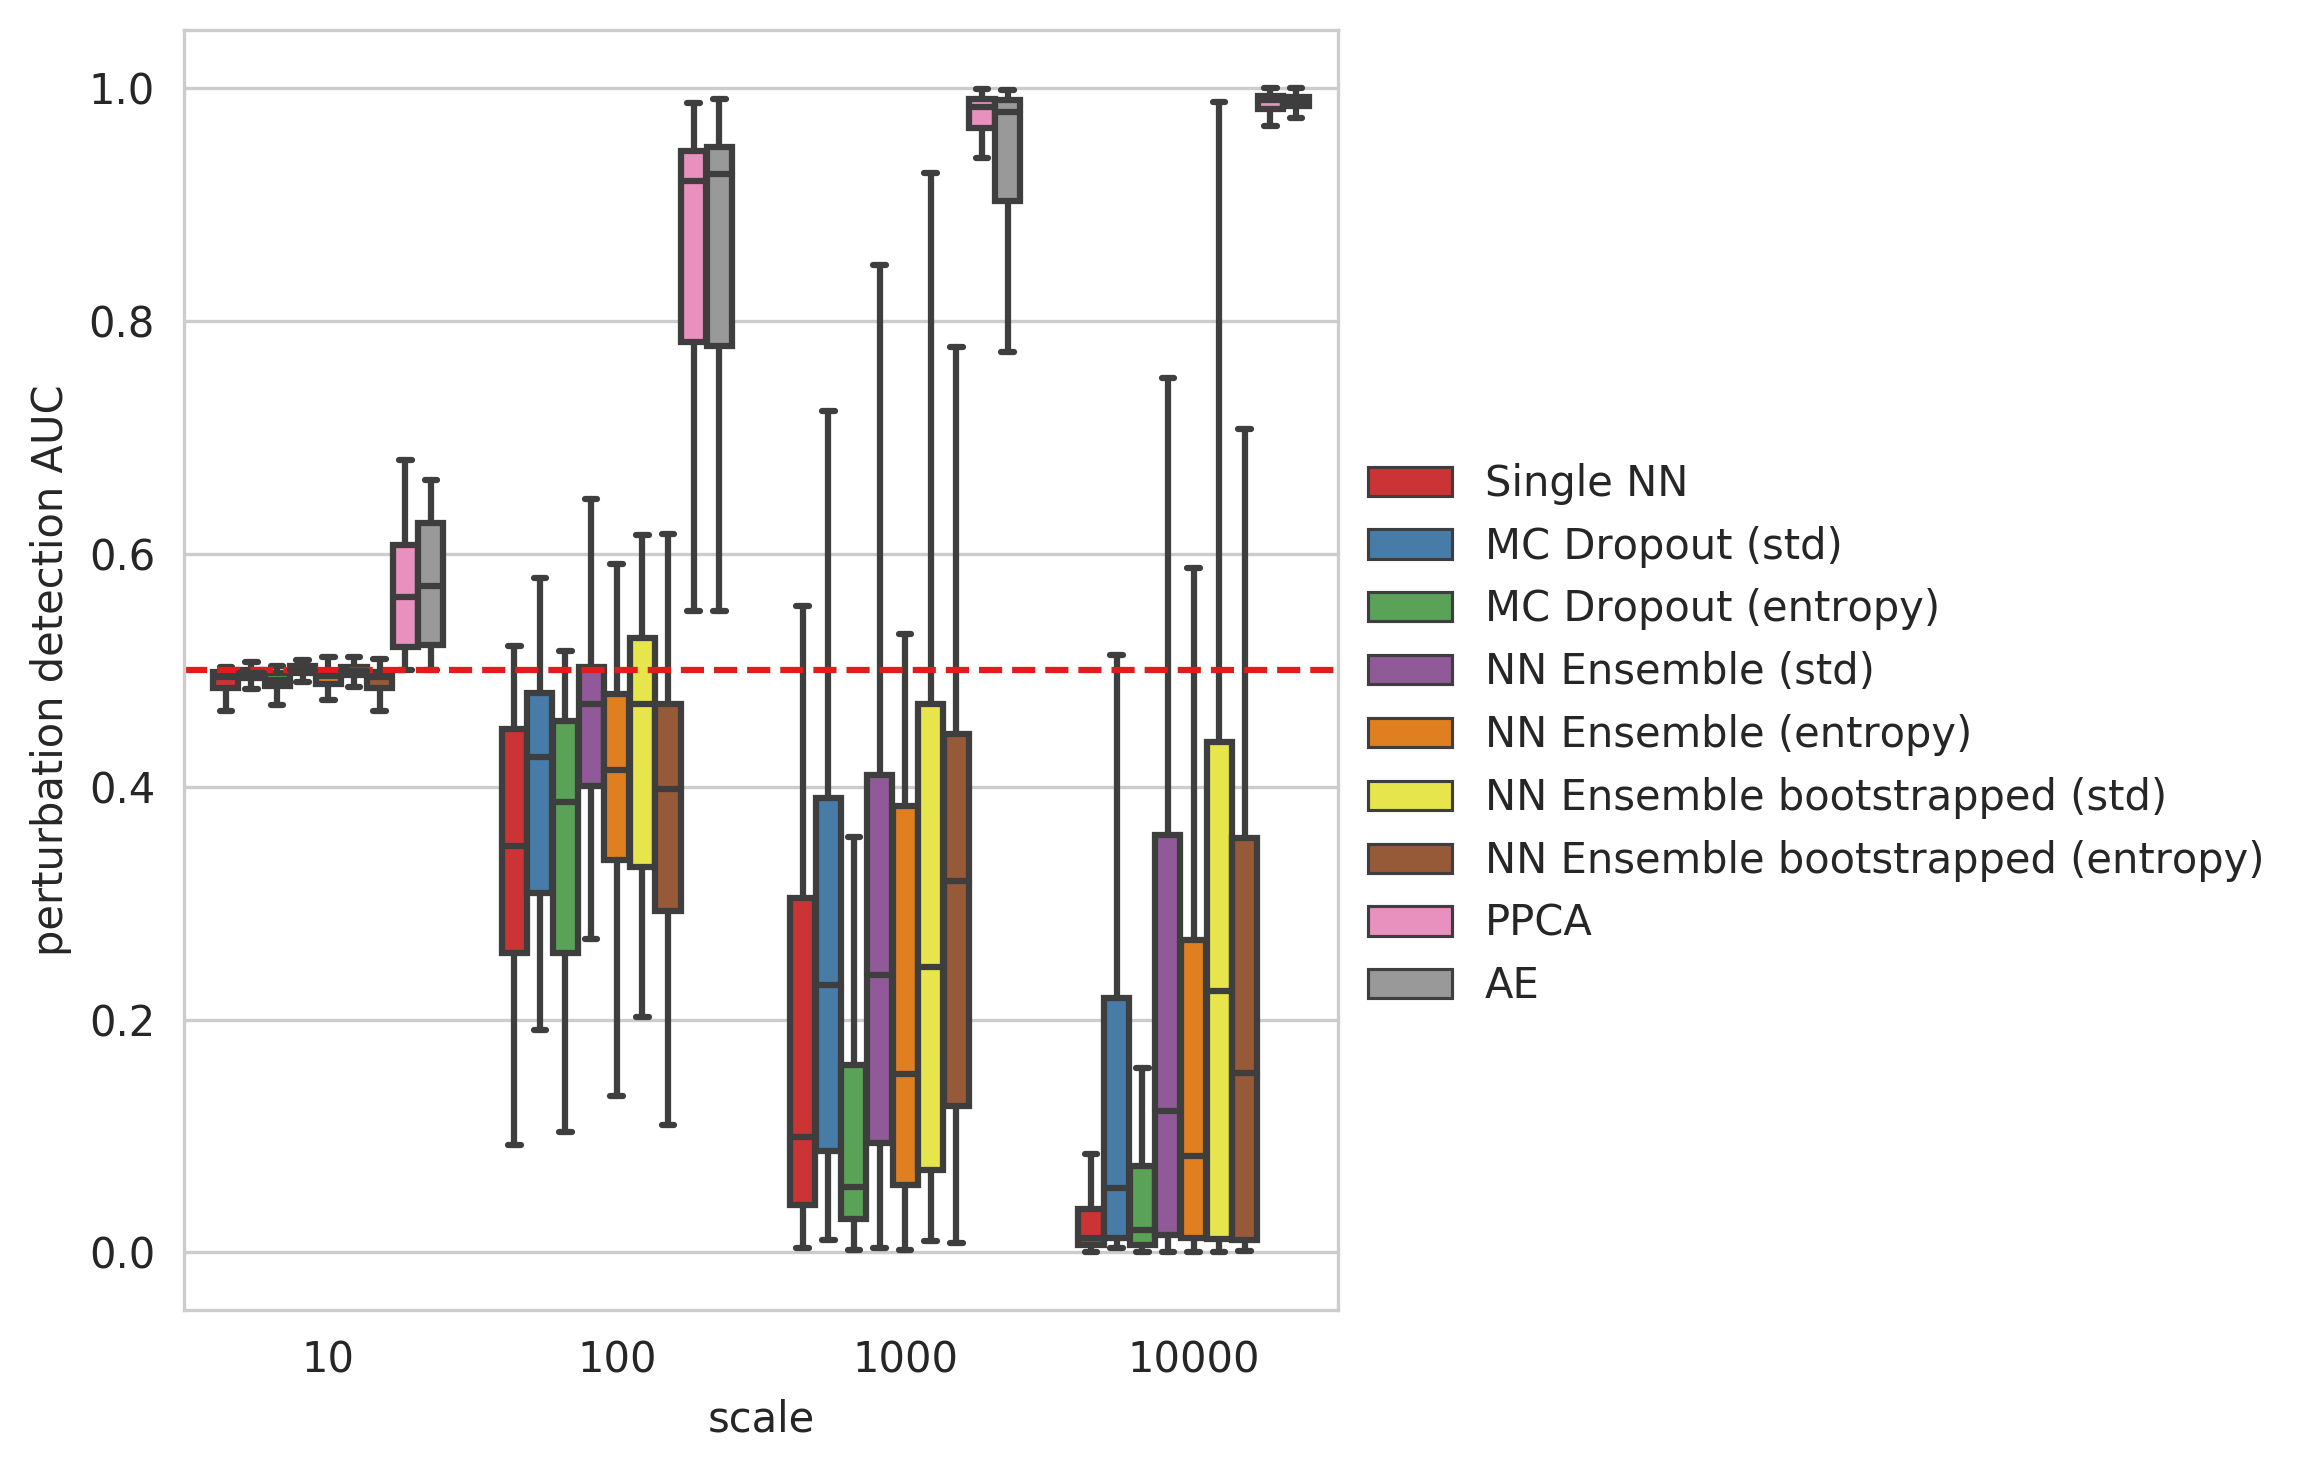
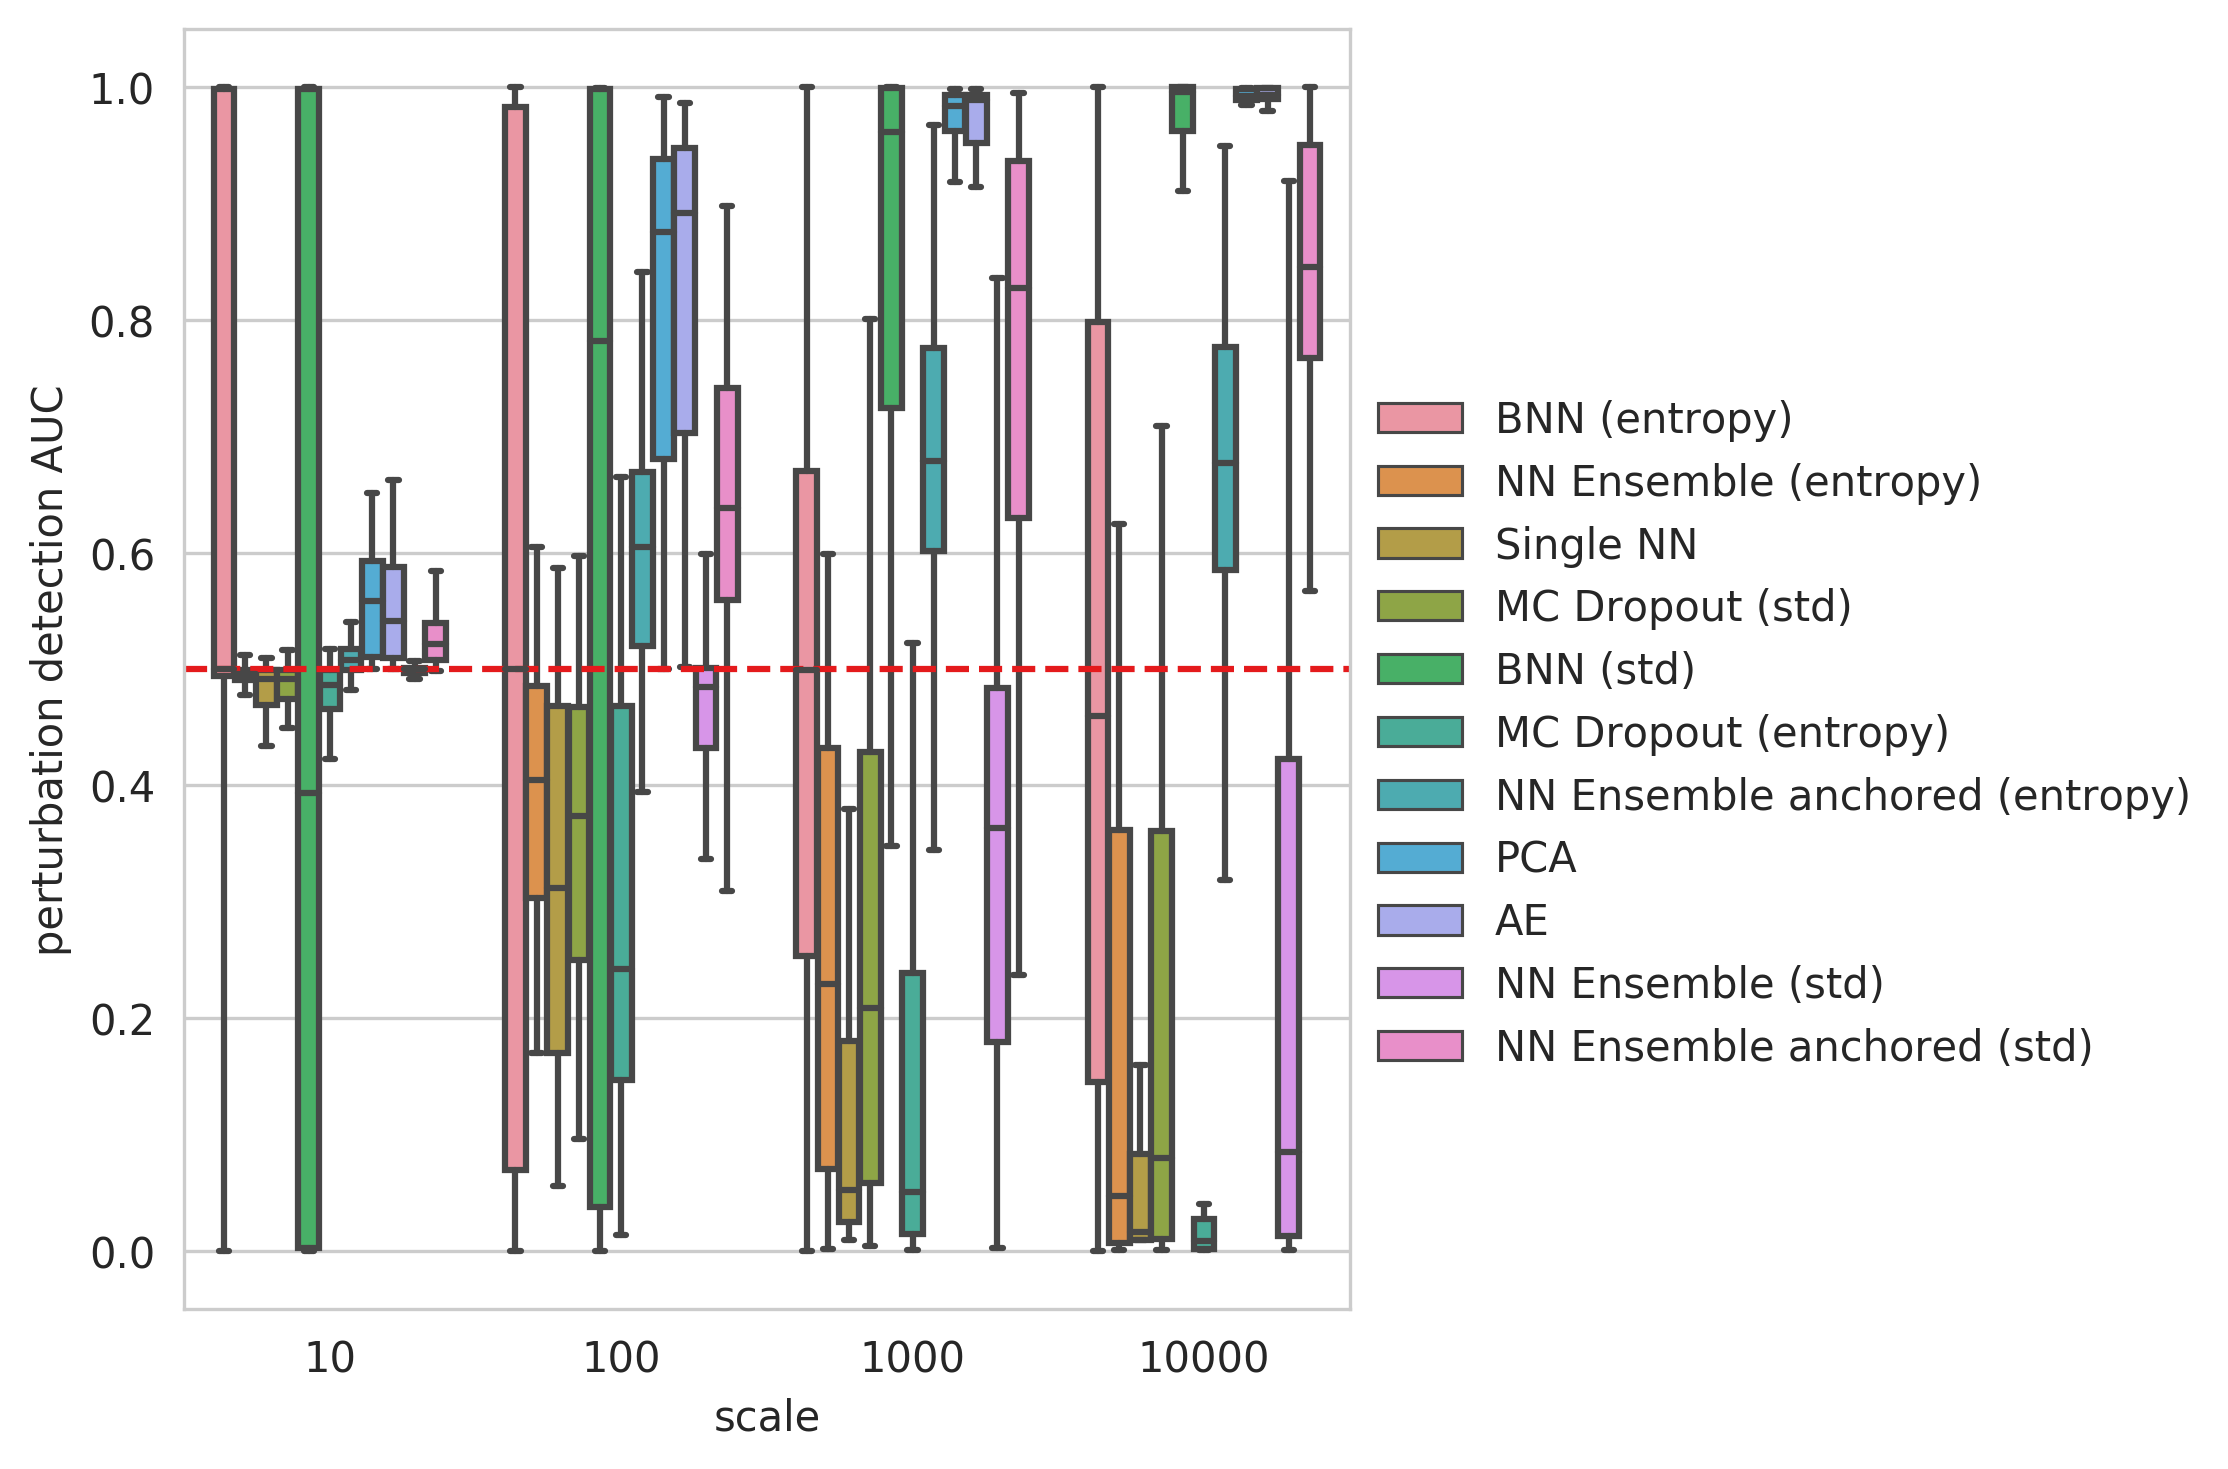
:bug: Fix plotting bugs after refac and retrain BNN with David's hyperparameters

diff --git a/uncertainty_estimation/experiments/plot_results.py b/uncertainty_estimation/experiments/plot_results.py
@@ -17,15 +17,18 @@ from uncertainty_estimation.models.info import NEURAL_PREDICTORS, AVAILABLE_MODE
 
 # CONST
 N_SEEDS = 5
+RESULT_DIR = "../../data/results"
+PLOT_DIR = "../../img/experiments"
 
 
-def plot_ood_from_pickle(data_origin, dummy_group_name=None):
-    ood_dir_name = os.path.join("pickled_results", data_origin, "OOD")
-    ood_plot_dir_name = os.path.join("plots", data_origin, "OOD")
+def plot_ood_from_pickle(data_origin, result_dir, plot_dir, dummy_group_name=None):
+    ood_dir_name = os.path.join(result_dir, data_origin, "OOD")
+    ood_plot_dir_name = f"{plot_dir}/{data_origin}/OOD"
     auc_dict, recall_dict = dict(), dict()
     metric_dict = defaultdict(dict)
+    available_results = set(os.listdir(f"{result_dir}/{data_origin}/OOD/"))
 
-    for method in AVAILABLE_MODELS:
+    for method in available_results:
         method_dir = os.path.join(ood_dir_name, method)
         detection_dir = os.path.join(method_dir, "detection")
         for kind in os.listdir(detection_dir):
@@ -40,6 +43,7 @@ def plot_ood_from_pickle(data_origin, dummy_group_name=None):
 
         if method in NEURAL_PREDICTORS:
             metrics_dir = os.path.join(method_dir, "metrics")
+
             for metric in os.listdir(metrics_dir):
                 name = method.replace("_", " ")
                 with open(os.path.join(metrics_dir, metric), "rb") as f:
@@ -103,13 +107,14 @@ def plot_ood_from_pickle(data_origin, dummy_group_name=None):
         )
 
 
-def plot_da_from_pickle():
-    ood_dir_name = os.path.join("pickled_results", "DA")
-    ood_plot_dir_name = os.path.join("plots", "DA")
+def plot_da_from_pickle(result_dir, plot_dir):
+    ood_dir_name = os.path.join(result_dir, "DA")
+    ood_plot_dir_name = f"{plot_dir}/DA"
     auc_dict, recall_dict = dict(), dict()
     metric_dict = defaultdict(dict)
+    available_results = set(os.listdir(f"{result_dir}/DA/"))
 
-    for method in AVAILABLE_MODELS:
+    for method in available_results:
         method_dir = os.path.join(ood_dir_name, method)
         detection_dir = os.path.join(method_dir, "detection")
         for kind in os.listdir(detection_dir):
@@ -230,12 +235,13 @@ def plot_da_from_pickle():
     )
 
 
-def plot_perturbation_from_pickle(data_origin):
-    perturb_dir_name = os.path.join("../../data/results", data_origin, "perturbation")
-    perturb_plot_dir_name = os.path.join("plots", data_origin, "perturbation")
+def plot_perturbation_from_pickle(data_origin, result_dir, plot_dir):
+    perturb_dir_name = os.path.join(result_dir, data_origin, "perturbation")
+    perturb_plot_dir_name = f"{plot_dir}/{data_origin}/perturbation"
     auc_dict, recall_dict = dict(), dict()
+    available_results = set(os.listdir(f"{result_dir}/{data_origin}/perturbation/"))
 
-    for method in AVAILABLE_MODELS:
+    for method in available_results:
         method_dir = os.path.join(perturb_dir_name, method)
         name = method.replace("_", " ")
         with open(os.path.join(method_dir, "perturb_detect_auc.pkl"), "rb") as f:
@@ -285,16 +291,18 @@ def plot_perturbation_from_pickle(data_origin):
     )
 
 
-def confidence_performance_from_pickle(data_origin):
-    id_dir_name = os.path.join("pickled_results", data_origin, "ID")
-    id_plot_dir_name = os.path.join("plots", data_origin, "ID")
+def confidence_performance_from_pickle(data_origin, result_dir, plot_dir):
+    id_dir_name = os.path.join(result_dir, data_origin, "ID")
+    id_plot_dir_name = f"{plot_dir}/{data_origin}/ID"
     predictions, uncertainties = defaultdict(list), defaultdict(list)
     predictions_for_novelty_estimate, novelties = defaultdict(list), defaultdict(list)
 
     with open(os.path.join(id_dir_name, "y_test.pkl"), "rb") as f:
         y_test = pickle.load(f)
 
-    for method in AVAILABLE_MODELS:
+    available_results = set(os.listdir(f"{result_dir}/{data_origin}/ID/"))
+
+    for method in available_results:
         print(method)
         if method != "y_test.pkl":
             method_dir = os.path.join(id_dir_name, method)
@@ -388,19 +396,43 @@ if __name__ == "__main__":
         type=str,
         nargs="+",
         default=["da", "ood", "perturb"],
-        choice=["da", "ood", "perturb", "confidence"],
+        choices=["da", "ood", "perturb", "confidence"],
         help="Specify the types of plots that should be created.",
+    )
+    parser.add_argument(
+        "--result_dir",
+        type=str,
+        default=RESULT_DIR,
+        help="Define the directory that results were saved to.",
+    )
+    parser.add_argument(
+        "--plot_dir",
+        type=str,
+        default=PLOT_DIR,
+        help="Define the directory that results were saved to.",
     )
     args = parser.parse_args()
 
     if "da" in args.plots:
-        plot_da_from_pickle()
+        plot_da_from_pickle(result_dir=args.result_dir, plot_dir=args.plot_dir)
 
     if "ood" in args.plots:
-        plot_ood_from_pickle(data_origin=args.data_origin)
+        plot_ood_from_pickle(
+            data_origin=args.data_origin,
+            result_dir=args.result_dir,
+            plot_dir=args.plot_dir,
+        )
 
     if "perturb" in args.plots:
-        plot_perturbation_from_pickle(data_origin=args.data_origin)
+        plot_perturbation_from_pickle(
+            data_origin=args.data_origin,
+            result_dir=args.result_dir,
+            plot_dir=args.plot_dir,
+        )
 
     if "confidence" in args.plots:
-        confidence_performance_from_pickle(data_origin=args.data_origin)
+        confidence_performance_from_pickle(
+            data_origin=args.data_origin,
+            result_dir=args.result_dir,
+            plot_dir=args.plot_dir,
+        )

diff --git a/uncertainty_estimation/experiments/perturbation.py b/uncertainty_estimation/experiments/perturbation.py
@@ -28,7 +28,7 @@ RESULT_DIR = "../../data/results"
 
 
 def run_perturbation_experiment(
-    nov_an: NoveltyAnalyzer, X_test: np.ndarray, kind: str = None
+    nov_an: NoveltyAnalyzer, X_test: np.ndarray, scoring_func: str = None
 ) -> Tuple[Dict[str, List[float]], Dict[str, List[float]]]:
     """Runs the perturbation experiment for a single novelty estimator.
 
@@ -38,7 +38,7 @@ def run_perturbation_experiment(
         The novelty analyzer (handles scaling, imputation, evaluation)
     X_test: np.ndarray
         The test data to use
-    kind: str
+    scoring_func: str
         Which kind of novelty to evaluate (used for NN ensemble, where you can choose between
         'std' and 'entropy'
 
@@ -64,7 +64,7 @@ def run_perturbation_experiment(
             X_test_adjusted = deepcopy(nov_an.X_test)
             X_test_adjusted[:, r] = X_test_adjusted[:, r] * scale_adjustment
             nov_an.set_ood(X_test_adjusted, impute_and_scale=False)
-            nov_an.calculate_novelty(kind=kind)
+            nov_an.calculate_novelty(kind=scoring_func)
             aucs_dict[scale_adjustment] += [nov_an.get_ood_detection_auc()]
             recall_dict[scale_adjustment] += [nov_an.get_ood_recall()]
 
@@ -117,7 +117,7 @@ if __name__ == "__main__":
 
         for scoring_func in scoring_funcs:
             aucs_dict, recall_dict = run_perturbation_experiment(
-                nov_an, test_data[feature_names], kind=scoring_func
+                nov_an, test_data[feature_names], scoring_func=scoring_func
             )
             if len(scoring_funcs) > 1:
                 dir_name = os.path.join(

diff --git a/uncertainty_estimation/models/info.py b/uncertainty_estimation/models/info.py
@@ -3,6 +3,9 @@ Module to be the single place to bundle all the information about models: Availa
 hyperparameters, etc.
 """
 
+import math
+import numpy as np
+
 # ### Models and novelty scoring functions ###
 
 BASELINES = {
@@ -81,13 +84,13 @@ MODEL_PARAMS = {
     "BNN": {
         "hidden_sizes": [50, 50],
         "dropout_rate": 0.0,
-        "lr": 0.005,
+        "lr": 1e-3,
         "class_weight": False,
-        "posterior_rho_init": -4.5,
-        "posterior_mu_init": 0,
-        "prior_pi": 0.8,
-        "prior_sigma_1": 0.7,
-        "prior_sigma_2": 0.4,
+        "posterior_rho_init": np.random.uniform(-5, -4),
+        "posterior_mu_init": np.random.uniform(-0.2, 0.2),
+        "prior_pi": 0.5,
+        "prior_sigma_1": math.exp(0),
+        "prior_sigma_2": math.exp(-6),
     },
     "NNEnsemble": {
         "n_models": 10,
@@ -137,7 +140,7 @@ TRAIN_PARAMS = {
         "early_stopping_patience": 3,
         "n_epochs": 100,
     },
-    "BNN": {"batch_size": 1024, "early_stopping": True, "early_stopping_patience": 5},
+    "BNN": {"batch_size": 128, "early_stopping": True, "early_stopping_patience": 3},
     "NNEnsemble": {
         "batch_size": 256,
         "early_stopping": True,

diff --git a/uncertainty_estimation/models/mlp.py b/uncertainty_estimation/models/mlp.py
@@ -434,7 +434,7 @@ class MLP:
             if early_stopping:
                 val_loss = self.validate(X_val, y_val)
 
-                if val_loss > prev_val_loss:
+                if val_loss >= prev_val_loss:
                     n_no_improvement += 1
 
                 else:
@@ -445,9 +445,7 @@ class MLP:
                 print("Early stopping after", epoch, "epochs.")
                 break
 
-    def predict_proba(
-        self, X_test: np.array, n_samples: Optional[int] = None
-    ) -> np.array:
+    def predict_proba(self, X_test: np.array) -> np.array:
         """
         Predict the probabilities for a batch of samples.
 
@@ -455,8 +453,6 @@ class MLP:
         ----------
         X_test: np.array
             Batch of samples as numpy array.
-        n_samples: Optional[int]
-            Number of forward passes in the case of MC Dropout.
 
         Returns
         -------

diff --git a/uncertainty_estimation/visualizing/ood_plots.py b/uncertainty_estimation/visualizing/ood_plots.py
@@ -63,6 +63,7 @@ def boxplot_from_nested_listdict(
     sns.set_style("whitegrid")
     df = pd.DataFrame.from_dict(nested_dict, orient="columns")
 
+    del kwargs["legend_args"]  # TODO: Debug
     df = df.stack().reset_index()
     df.columns = [x_name, "", name]
     df = df.explode(name)
